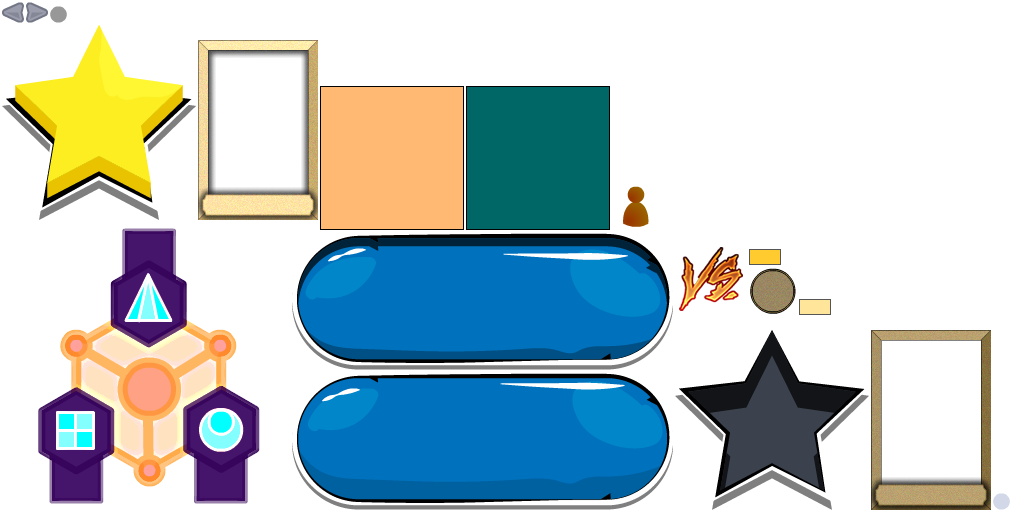
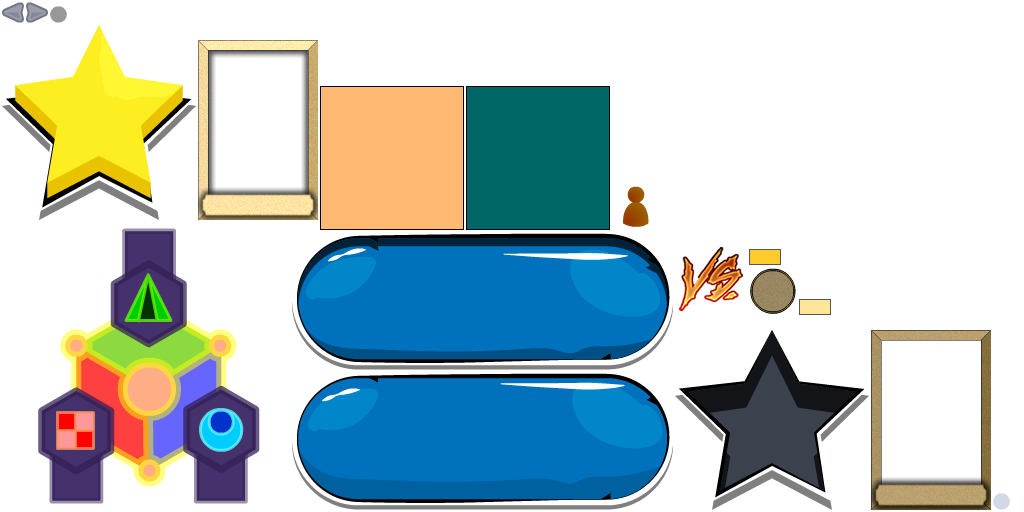
add attrs tree

Changed region(s): [[0.0312, 0.4375, 0.25, 1.0]]

diff --git a/android/core/src/com/game7th/swipe/campaign/party/PersonageTabView.kt b/android/core/src/com/game7th/swipe/campaign/party/PersonageTabView.kt
@@ -1,19 +1,77 @@
 package com.game7th.swipe.campaign.party
 
+import com.badlogic.gdx.graphics.Color
 import com.badlogic.gdx.scenes.scene2d.Group
 import com.badlogic.gdx.scenes.scene2d.ui.Image
+import com.badlogic.gdx.scenes.scene2d.ui.Label
+import com.badlogic.gdx.utils.Align
+import com.game7th.metagame.account.AccountService
+import com.game7th.metagame.unit.UnitConfig
 import com.game7th.swipe.ScreenContext
+import com.game7th.swipe.campaign.plist.PersonageVerticalPortrait
 
 class PersonageTabView(
-        private val context: ScreenContext
+        private val context: ScreenContext,
+        private val service: AccountService,
+        private val personageId: Int
 ) : Group() {
+
+    private val personage = service.getPersonages().first { it.id == personageId }
 
     val bg = Image(context.uiAtlas.findRegion("ui_dialog")).apply {
         width = 480f * context.scale
-        height = 170f * context.scale
+        height = 200f * context.scale
+    }
+
+    val portrait = PersonageVerticalPortrait(context, UnitConfig(personage.unit, personage.level), 180f * context.scale).apply {
+        x = 10f * context.scale
+        y = 10f * context.scale
+    }
+
+    val attrsBg = Image(context.uiAtlas.findRegion("ui_attrs_tree")).apply {
+        x = 140f * context.scale
+        y = 10f * context.scale
+        width = 160f * context.scale
+        height = 160f * context.scale
+    }
+
+    val ah = 0.08f * attrsBg.height
+    val aw = 0.13f * attrsBg.height
+
+    val bodyLabel = Label(personage.stats.body.toString(), Label.LabelStyle(context.font, Color.WHITE)).apply {
+        x = attrsBg.x + 0.19f * attrsBg.width
+        y = attrsBg.y + 0.04f * attrsBg.height
+        width = aw
+        height = ah
+        setAlignment(Align.center)
+        setFontScale(ah / 36f)
+    }
+
+    val spiritLabel = Label(personage.stats.spirit.toString(), Label.LabelStyle(context.font, Color.WHITE)).apply {
+        x = attrsBg.x + 0.45f * attrsBg.width
+        y = attrsBg.y + 0.87f * attrsBg.height
+        width = aw
+        height = ah
+        setAlignment(Align.center)
+        setFontScale(ah / 36f)
+    }
+
+    val mindLabel = Label(personage.stats.mind.toString(), Label.LabelStyle(context.font, Color.WHITE)).apply {
+        x = attrsBg.x + 0.7f * attrsBg.width
+        y = attrsBg.y + 0.04f * attrsBg.height
+        width = aw
+        height = ah
+        setAlignment(Align.center)
+        setFontScale(ah / 36f)
     }
 
     init {
         addActor(bg)
+        addActor(portrait)
+        addActor(attrsBg)
+
+        addActor(bodyLabel)
+        addActor(spiritLabel)
+        addActor(mindLabel)
     }
 }

diff --git a/android/metagame/src/main/java/com/game7th/metagame/account/AccountServiceImpl.kt b/android/metagame/src/main/java/com/game7th/metagame/account/AccountServiceImpl.kt
@@ -4,6 +4,7 @@ import com.game7th.metagame.PersistentStorage
 import com.game7th.metagame.unit.UnitType
 import com.google.gson.Gson
 import kotlin.math.exp
+import kotlin.math.max
 import kotlin.random.Random
 
 class AccountServiceImpl(
@@ -16,20 +17,29 @@ class AccountServiceImpl(
     init {
         val dataString = storage.get(KEY_PERSONAGES)
         pool = if (dataString == null) {
+
             val initialData = PersonagePool(
                     ((1..10).map {
+                        val lvl = it * 2 - 1
+                        val primary = max(1, lvl / 2)
+                        val tertiary = (lvl - primary) / 3
+                        val secondary = lvl - primary - tertiary
                         PersonageData(
                                 unit = UnitType.GLADIATOR,
-                                level = it * 2 - 1,
+                                level = lvl,
                                 experience = 0,
-                                stats = PersonageAttributeStats(it / 2, it / 3, it - it / 2 - it / 3),
+                                stats = PersonageAttributeStats(primary, secondary, tertiary),
                                 id = it)
                     } + (1..10).map {
+                        val lvl = it * 2 - 1
+                        val primary = max(1, lvl / 2)
+                        val tertiary = (lvl - primary) / 3
+                        val secondary = lvl - primary - tertiary
                         PersonageData(
                                 unit = UnitType.POISON_ARCHER,
-                                level = it * 2 - 1,
+                                level = lvl,
                                 experience = 0,
-                                stats = PersonageAttributeStats(it - it / 2 - it / 3, it / 2, it / 3),
+                                stats = PersonageAttributeStats(tertiary, primary, secondary),
                                 id = 100 + it)
                     }).sortedBy { it.level },
                     nextPersonageId = 200

diff --git a/android/core/src/com/game7th/swipe/campaign/party/PartyView.kt b/android/core/src/com/game7th/swipe/campaign/party/PartyView.kt
@@ -31,6 +31,9 @@ class PartyView(
     }
 
     var firstShow = true
+    var isDetailsShown = false
+
+    var detailView: PersonageTabView? = null
 
     init {
         addActor(personagesBg)
@@ -38,6 +41,32 @@ class PartyView(
 
         personagesView.selectionCallback = { index ->
             //show details or hide details
+            //we are probably show detailView
+            val needAnimation = detailView == null
+            detailView?.remove()
+            detailView = PersonageTabView(context, service, service.getPersonages()[index].id)
+            addActor(detailView)
+            isDetailsShown = true
+
+            detailView?.let { detailView ->
+                if (needAnimation) {
+                    detailView.y = -200f * context.scale
+                    detailView.addAction(MoveByAction().apply {
+                        amountY = 200f * context.scale
+                        duration = 0.25f
+                    })
+                    personagesScroll.y = 0f
+                    personagesBg.y = 0f
+                    personagesScroll.addAction(MoveByAction().apply {
+                        amountY = 200f * context.scale
+                        duration = 0.25f
+                    })
+                    personagesBg.addAction(MoveByAction().apply {
+                        amountY = 200f * context.scale
+                        duration = 0.25f
+                    })
+                }
+            }
         }
     }
 
@@ -57,7 +86,7 @@ class PartyView(
     }
 
     fun animateHide() {
-        val shift = browserHeight + 2 * context.scale * 10f
+        val shift = browserHeight + 2 * context.scale * 10f + (if (isDetailsShown) 200f * context.scale else 0f)
         addAction(SequenceAction(
                 MoveByAction().apply {
                     amountY = -shift

diff --git a/android/core/src/com/game7th/swipe/campaign/plist/PersonageScrollActor.kt b/android/core/src/com/game7th/swipe/campaign/plist/PersonageScrollActor.kt
@@ -37,6 +37,7 @@ class PersonageScrollActor(
                 if (indexSelectable) {
                     selectedIndex = index
                     applySelection()
+                    selectionCallback?.invoke(index)
                 }
             }
         }
